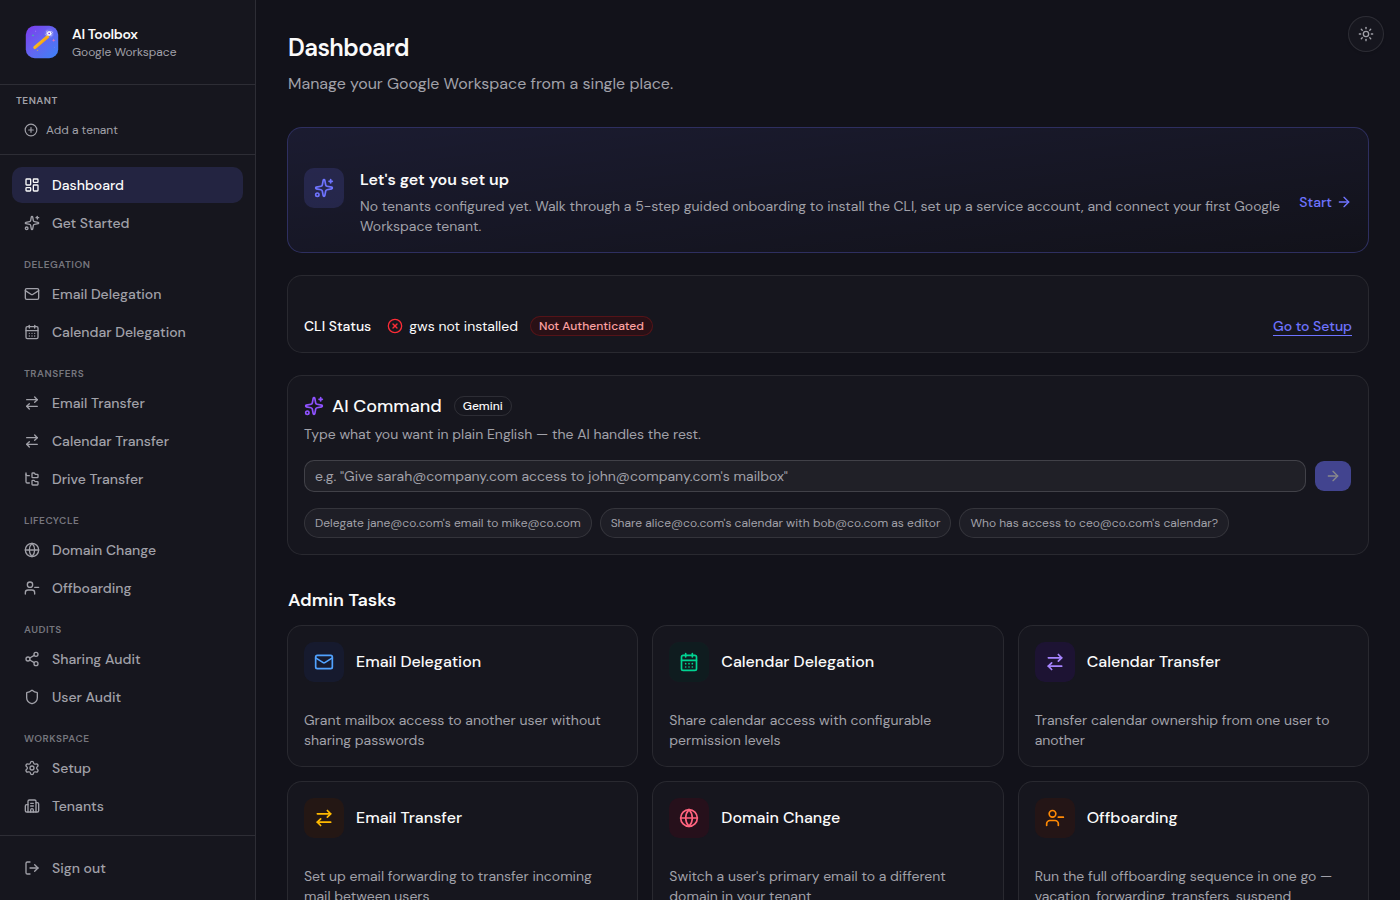
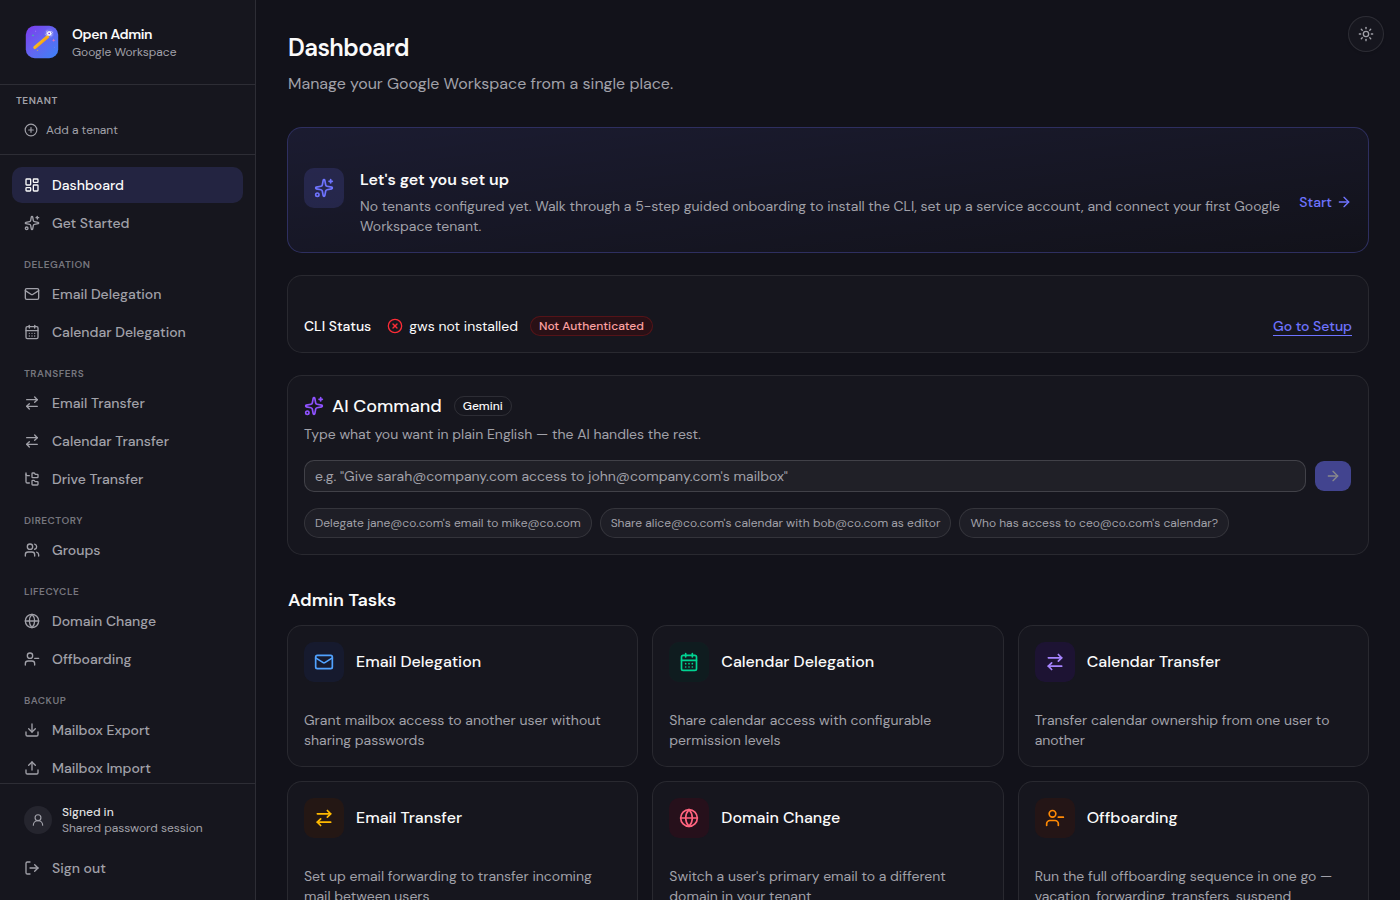
chore: rename the app to Google Workspace Open Admin
Product name is now "Google Workspace Open Admin", shortened to "Open
Admin" wherever the UI or docs referred to "the toolbox".

- Sidebar brand, page metadata, login copy, onboarding and setup copy,
  confirmation dialogs, single sign-on pages, and server-side error
  messages.
- package.json / package-lock.json name: google-workspace-open-admin.
- README title and prose, .env.example comments, feature review doc.
- README screenshots regenerated in light and dark with the repo script,
  which now also captures the Single Sign-On page (added to the gallery).

Unchanged on purpose: the session and handshake cookie names, so existing
sessions survive the upgrade, and the clone URLs, which follow the GitHub
repository name.

Changed region(s): [[0.0, 0.6533, 0.1536, 0.9333], [0.0, 0.56, 0.1229, 0.6222], [0.0307, 0.0311, 0.1229, 0.0622]]

diff --git a/src/app/onboarding/page.tsx b/src/app/onboarding/page.tsx
@@ -473,7 +473,7 @@ function WelcomeStep({ tenantCount }: { tenantCount: number }) {
             <Sparkles className="h-5 w-5 text-primary" />
           </div>
           <div>
-            <CardTitle className="text-lg">Welcome to the Toolbox</CardTitle>
+            <CardTitle className="text-lg">Welcome to Open Admin</CardTitle>
             <CardDescription>
               We&apos;ll get you connected to Google Workspace in about 10 minutes.
             </CardDescription>
@@ -482,7 +482,7 @@ function WelcomeStep({ tenantCount }: { tenantCount: number }) {
       </CardHeader>
       <CardContent className="space-y-5">
         <p className="text-sm text-muted-foreground">
-          To run admin operations, the toolbox needs three things: the{" "}
+          To run admin operations, Open Admin needs three things: the{" "}
           <code className="font-mono bg-muted px-1 rounded">gws</code> CLI,
           a Google Cloud service account with domain-wide delegation, and a
           <em> tenant</em> entry that points at your service account JSON.
@@ -601,7 +601,7 @@ function InstallStep({
           Install the gws CLI
         </CardTitle>
         <CardDescription>
-          Pick your platform and run the install command. The toolbox shells out to
+          Pick your platform and run the install command. Open Admin shells out to
           this CLI for everything that isn&apos;t a direct Google API call.
         </CardDescription>
       </CardHeader>
@@ -643,7 +643,7 @@ function InstallStep({
               command="npm install -g @googleworkspace/cli"
             />
             <p className="text-xs text-muted-foreground">
-              If <code className="font-mono">gws --version</code> isn&apos;t recognised after install, point the toolbox at the shim explicitly:
+              If <code className="font-mono">gws --version</code> isn&apos;t recognised after install, point Open Admin at the shim explicitly:
             </p>
             <CommandSnippet
               label="PowerShell — set GWS_BIN"
@@ -736,7 +736,7 @@ function ServiceAccountStep() {
           Set up a service account
         </CardTitle>
         <CardDescription>
-          A GCP service account with domain-wide delegation lets the toolbox act
+          A GCP service account with domain-wide delegation lets Open Admin act
           on behalf of any user in your tenant — no per-user OAuth dance.
         </CardDescription>
       </CardHeader>
@@ -1098,7 +1098,7 @@ function VerifyStep({
           Verify and finish
         </CardTitle>
         <CardDescription>
-          One last sanity check that the toolbox can talk to{" "}
+          One last sanity check that Open Admin can talk to{" "}
           <strong>{tenantName}</strong> via the gws CLI.
         </CardDescription>
       </CardHeader>
@@ -1146,7 +1146,7 @@ function VerifyStep({
                 Verify Domain-Wide Delegation scopes
               </p>
               <p className="text-xs text-muted-foreground mt-0.5">
-                Checks every OAuth scope this toolbox impersonates against
+                Checks every OAuth scope Open Admin impersonates against
                 Google&apos;s auth server, so missing scopes surface here
                 instead of silently breaking a future operation.
               </p>

diff --git a/src/components/sso-setup-wizard.tsx b/src/components/sso-setup-wizard.tsx
@@ -635,7 +635,7 @@ function RegisterStep({
   return (
     <div className="space-y-4">
       <div>
-        <p className="text-sm font-semibold">Register the toolbox with {preset.label}</p>
+        <p className="text-sm font-semibold">Register Open Admin with {preset.label}</p>
         <Hint>
           Create a web application at the provider and give it the redirect URI
           below. Keep that tab open — the next step needs its client ID and
@@ -668,17 +668,17 @@ function RegisterStep({
 
       <div className="space-y-1.5">
         <Label htmlFor="sso-base-url" className="text-xs">
-          Toolbox base URL
+          Open Admin base URL
         </Label>
         <Input
           id="sso-base-url"
           value={form.baseUrl}
           onChange={(e) => onChange("baseUrl", e.target.value)}
-          placeholder="https://toolbox.example.com"
+          placeholder="https://admin.example.com"
           className="h-8 text-sm font-mono"
         />
         <Hint>
-          The address people open the toolbox at. Behind a reverse proxy, use the
+          The address people use to reach Open Admin. Behind a reverse proxy, use the
           public URL — the provider sends the browser back here.
         </Hint>
       </div>
@@ -912,7 +912,7 @@ function AccessStep({
         <p className="text-sm font-semibold">Who can sign in?</p>
         <Hint>
           The provider proves who someone is; this list decides whether they get
-          into the toolbox. Every account that gets in has full admin access.
+          into Open Admin. Every account that gets in has full admin access.
         </Hint>
       </div>
 

diff --git a/src/lib/oidc.ts b/src/lib/oidc.ts
@@ -13,8 +13,8 @@ import {
  * Built on openid-client, which implements discovery, PKCE, the authorization
  * code grant and ID token validation (issuer, audience, expiry, nonce and —
  * with non-repudiation checks enabled — the JWS signature against the
- * provider's published keys). This module adds what is specific to the
- * toolbox: which provider to talk to, how to remember the in-flight
+ * provider's published keys). This module adds what is specific to
+ * Open Admin: which provider to talk to, how to remember the in-flight
  * handshake, which claim counts as the user's email, and who is allowed in.
  *
  * Server-only: never import from a client component.
@@ -196,7 +196,7 @@ export async function checkIssuer(issuerRaw: string): Promise<IssuerCheckResult>
   const algs = strings(server.id_token_signing_alg_values_supported);
   if (algs.length > 0 && algs.every((a) => a.startsWith("HS"))) {
     warnings.push(
-      "Only symmetric ID token signing (HS*) is advertised. The toolbox verifies signatures against the provider's published keys and needs RS256 / ES256 / PS256."
+      "Only symmetric ID token signing (HS*) is advertised. Open Admin verifies signatures against the provider's published keys and needs RS256 / ES256 / PS256."
     );
   }
 

diff --git a/src/lib/sso-types.ts b/src/lib/sso-types.ts
@@ -217,12 +217,12 @@ export const SSO_ERROR_MESSAGES: Record<string, string> = {
   idp_denied: "Sign-in was cancelled or denied by your identity provider.",
   idp_error: "Your identity provider returned an error. Please try again.",
   exchange_failed:
-    "The identity provider accepted your sign-in but the toolbox couldn't complete the handshake. Check the server log.",
+    "The identity provider accepted your sign-in but Open Admin couldn't complete the handshake. Check the server log.",
   discovery_failed:
-    "The toolbox couldn't reach your identity provider. Check the server log.",
+    "Open Admin couldn't reach your identity provider. Check the server log.",
   no_email: "Your identity provider didn't share an email address, so access can't be checked.",
   email_unverified: "Your identity provider reports this email address as unverified.",
   not_allowed:
-    "This account isn't allowed to use the toolbox. Ask an administrator to add your email or domain.",
+    "This account isn't allowed to use Open Admin. Ask an administrator to add your email or domain.",
   server_error: "Something went wrong on the server while signing you in.",
 };

diff --git a/src/app/tenants/page.tsx b/src/app/tenants/page.tsx
@@ -459,7 +459,7 @@ export default function TenantsPage() {
                               preflightByTenant[tenant.id]?.kind === "loading"
                             }
                             className="h-8 text-xs"
-                            title="Verify that every OAuth scope this toolbox needs is authorized in Domain-Wide Delegation"
+                            title="Verify that every OAuth scope Open Admin needs is authorized in Domain-Wide Delegation"
                           >
                             {preflightByTenant[tenant.id]?.kind === "loading" ? (
                               <Loader2 className="h-3.5 w-3.5 mr-1 animate-spin" />
@@ -561,7 +561,7 @@ export default function TenantsPage() {
         open={!!deleteTarget}
         onOpenChange={(o) => !saving && !o && setDeleteTarget(null)}
         title="Delete tenant"
-        summary="This only removes the tenant from the toolbox. It does NOT modify Google Workspace."
+        summary="This only removes the tenant from Open Admin. It does NOT modify Google Workspace."
         tenant={null}
         severity="medium"
         confirmLabel="Delete tenant"

diff --git a/src/app/setup/page.tsx b/src/app/setup/page.tsx
@@ -203,7 +203,7 @@ export default function Setup() {
                       <XCircle className="h-5 w-5 text-red-500" />
                     )}
                     <div>
-                      <p className="text-sm font-medium">Toolbox tenants</p>
+                      <p className="text-sm font-medium">Open Admin tenants</p>
                       <p className="text-xs text-muted-foreground">
                         {tenantCount === null
                           ? "Checking..."
@@ -235,7 +235,7 @@ export default function Setup() {
                 <p className="text-xs text-muted-foreground pt-1">
                   <strong>CLI authentication</strong> means the{" "}
                   <code className="font-mono">gws</code> CLI itself has
-                  credentials. <strong>Toolbox tenants</strong> are what this
+                  credentials. <strong>Open Admin tenants</strong> are what this
                   app uses to run operations against your Workspace — each
                   tenant points at a service account JSON and an admin email.
                   You need at least one tenant before any feature works.

diff --git a/src/lib/admin-sdk.ts b/src/lib/admin-sdk.ts
@@ -655,16 +655,16 @@ export async function suspendUser(
   const { client, impersonatedAdmin } = getAdminClient(tenant);
   if (userEmail.toLowerCase() === impersonatedAdmin) {
     throw new Error(
-      "Refusing to suspend the admin this tool is impersonating — would lock the toolbox out."
+      "Refusing to suspend the admin this tool is impersonating — would lock Open Admin out."
     );
   }
   // `userKey` accepts aliases and resolves them to the same account, so resolve
   // the canonical primary email before suspending: an alias of the admin would
-  // otherwise slip past the string compare above and lock the toolbox out.
+  // otherwise slip past the string compare above and lock Open Admin out.
   const target = await getUser(tenant, userEmail);
   if (target.primaryEmail.toLowerCase() === impersonatedAdmin) {
     throw new Error(
-      "Refusing to suspend the admin this tool is impersonating — would lock the toolbox out."
+      "Refusing to suspend the admin this tool is impersonating — would lock Open Admin out."
     );
   }
   await withGoogleRetry(

diff --git a/src/app/sso/page.tsx b/src/app/sso/page.tsx
@@ -195,7 +195,7 @@ export default function SsoPage() {
                   No identity provider connected yet.
                 </p>
                 <p className="text-xs text-muted-foreground mt-1 max-w-sm mx-auto">
-                  The setup wizard walks through registering the toolbox with
+                  The setup wizard walks through registering Open Admin with
                   Google, Microsoft Entra ID, Okta or any other OpenID Connect
                   provider, tests a real sign-in, and only then enables it.
                 </p>
@@ -381,7 +381,7 @@ export default function SsoPage() {
                   as a password login, and audit-log entries record their email.
                 </li>
                 <li>
-                  Signing out of the toolbox does not sign out of the provider.
+                  Signing out of Open Admin does not sign out of the provider.
                 </li>
                 <li>
                   The configuration (including the client secret) lives in{" "}

diff --git a/src/lib/oidc-pages.ts b/src/lib/oidc-pages.ts
@@ -103,7 +103,7 @@ export function renderRedirectPage(next: string): string {
 <main class="card">
   <div class="icon wait">→</div>
   <h1>Signing you in…</h1>
-  <p>Taking you to the toolbox. <a href="${href}">Continue</a> if nothing happens.</p>
+  <p>Taking you to Open Admin. <a href="${href}">Continue</a> if nothing happens.</p>
 </main>
 <script>window.location.replace(${jsonForScript(next)});</script>
 </body>
@@ -142,7 +142,7 @@ export function renderTestResultPage(result: SsoTestResult): string {
   <h1>${result.ok ? "Sign-in test passed" : "Sign-in test failed"}</h1>
   <p>${
     result.ok
-      ? "The identity provider authenticated you and the toolbox accepted the result. No session was created."
+      ? "The identity provider authenticated you and Open Admin accepted the result. No session was created."
       : "Fix the problem below and run the test again from the wizard."
   }</p>
   ${dl}

diff --git a/src/lib/preflight.ts b/src/lib/preflight.ts
@@ -5,7 +5,7 @@ import type { Tenant } from "./tenant-types";
 /**
  * Pre-flight check for a tenant's Domain-Wide Delegation configuration.
  *
- * For each scope this toolbox needs, we attempt a token-exchange against
+ * For each scope Open Admin needs, we attempt a token-exchange against
  * Google's OAuth servers. A `unauthorized_client` failure means DWD is set
  * up for the service account but the operator never added that specific
  * scope in Admin Console → Security → API controls → Domain-wide delegation.
@@ -35,7 +35,7 @@ export interface PreflightResult {
 }
 
 /**
- * The full set of OAuth scopes the toolbox impersonates with. Adding a new
+ * The full set of OAuth scopes Open Admin impersonates with. Adding a new
  * feature that needs a new scope? Add it here so the preflight catches it.
  */
 const REQUIRED_SCOPES: ReadonlyArray<{

diff --git a/src/middleware.ts b/src/middleware.ts
@@ -19,7 +19,7 @@ const PUBLIC_PATHS = new Set([
  *
  *   1. APP_PASSWORD must be set. If it isn't, the entire app refuses to serve
  *      anything except /login (which itself will tell the operator to set it).
- *      This means the toolbox can never be accidentally deployed wide-open.
+ *      This means Open Admin can never be accidentally deployed wide-open.
  *
  *   2. Authenticated session for every page and API route.
  *
@@ -61,7 +61,7 @@ export async function middleware(req: NextRequest) {
         NextResponse.json(
           {
             error:
-              "Server not configured: APP_PASSWORD is not set. The toolbox refuses to run mutating actions without it.",
+              "Server not configured: APP_PASSWORD is not set. Open Admin refuses to run mutating actions without it.",
           },
           { status: 503 }
         )

diff --git a/src/lib/auth.ts b/src/lib/auth.ts
@@ -1,5 +1,5 @@
 /**
- * Auth helpers for the toolbox.
+ * Auth helpers for Open Admin.
  *
  * Uses Web Crypto (globalThis.crypto.subtle) so the same module works in
  * both Edge Middleware and Node API routes — `node:crypto` would crash the
@@ -292,7 +292,7 @@ export async function passwordMatches(input: string): Promise<boolean> {
  * Cookie attributes shared by every code path that issues a session.
  *
  * `strict` blocks the cookie on any cross-site navigation, top-level or
- * otherwise. The toolbox has no flow that depends on inbound cross-site
+ * otherwise. Open Admin has no flow that depends on inbound cross-site
  * links (the single sign-on callback lands on a same-origin interstitial
  * before navigating on), so this gives belt-and-braces CSRF protection on top
  * of the Origin/Referer check enforced by the middleware.
